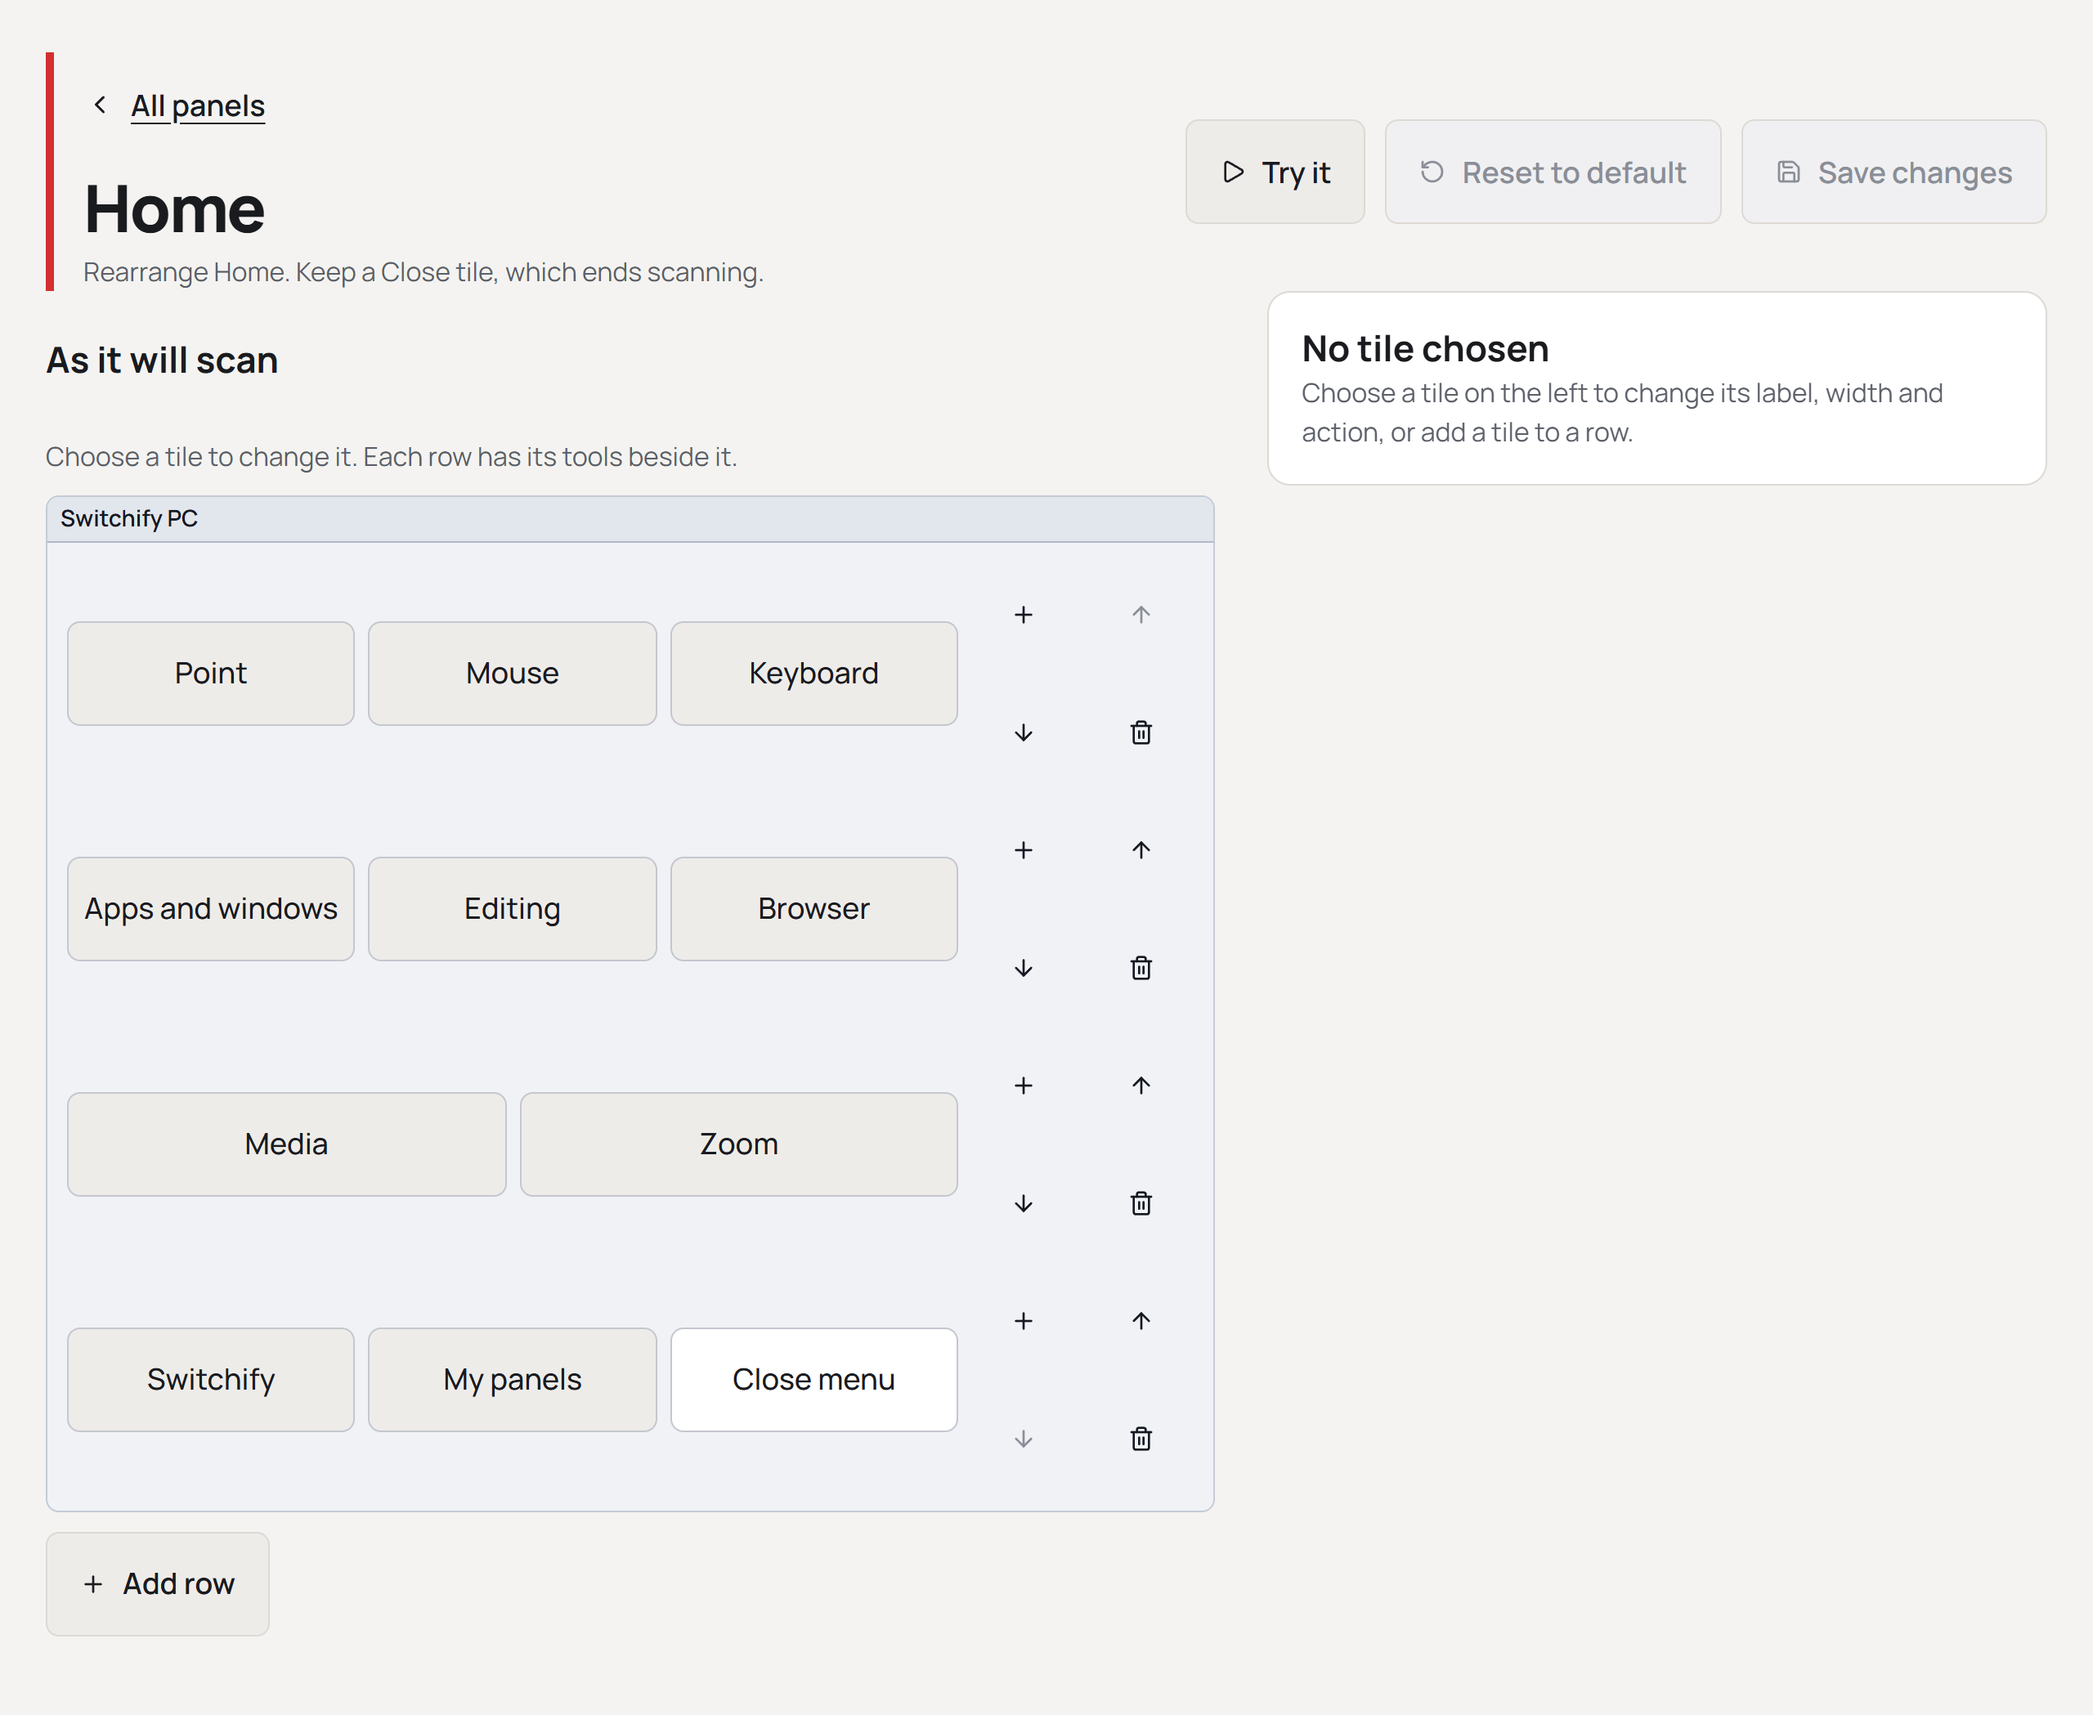
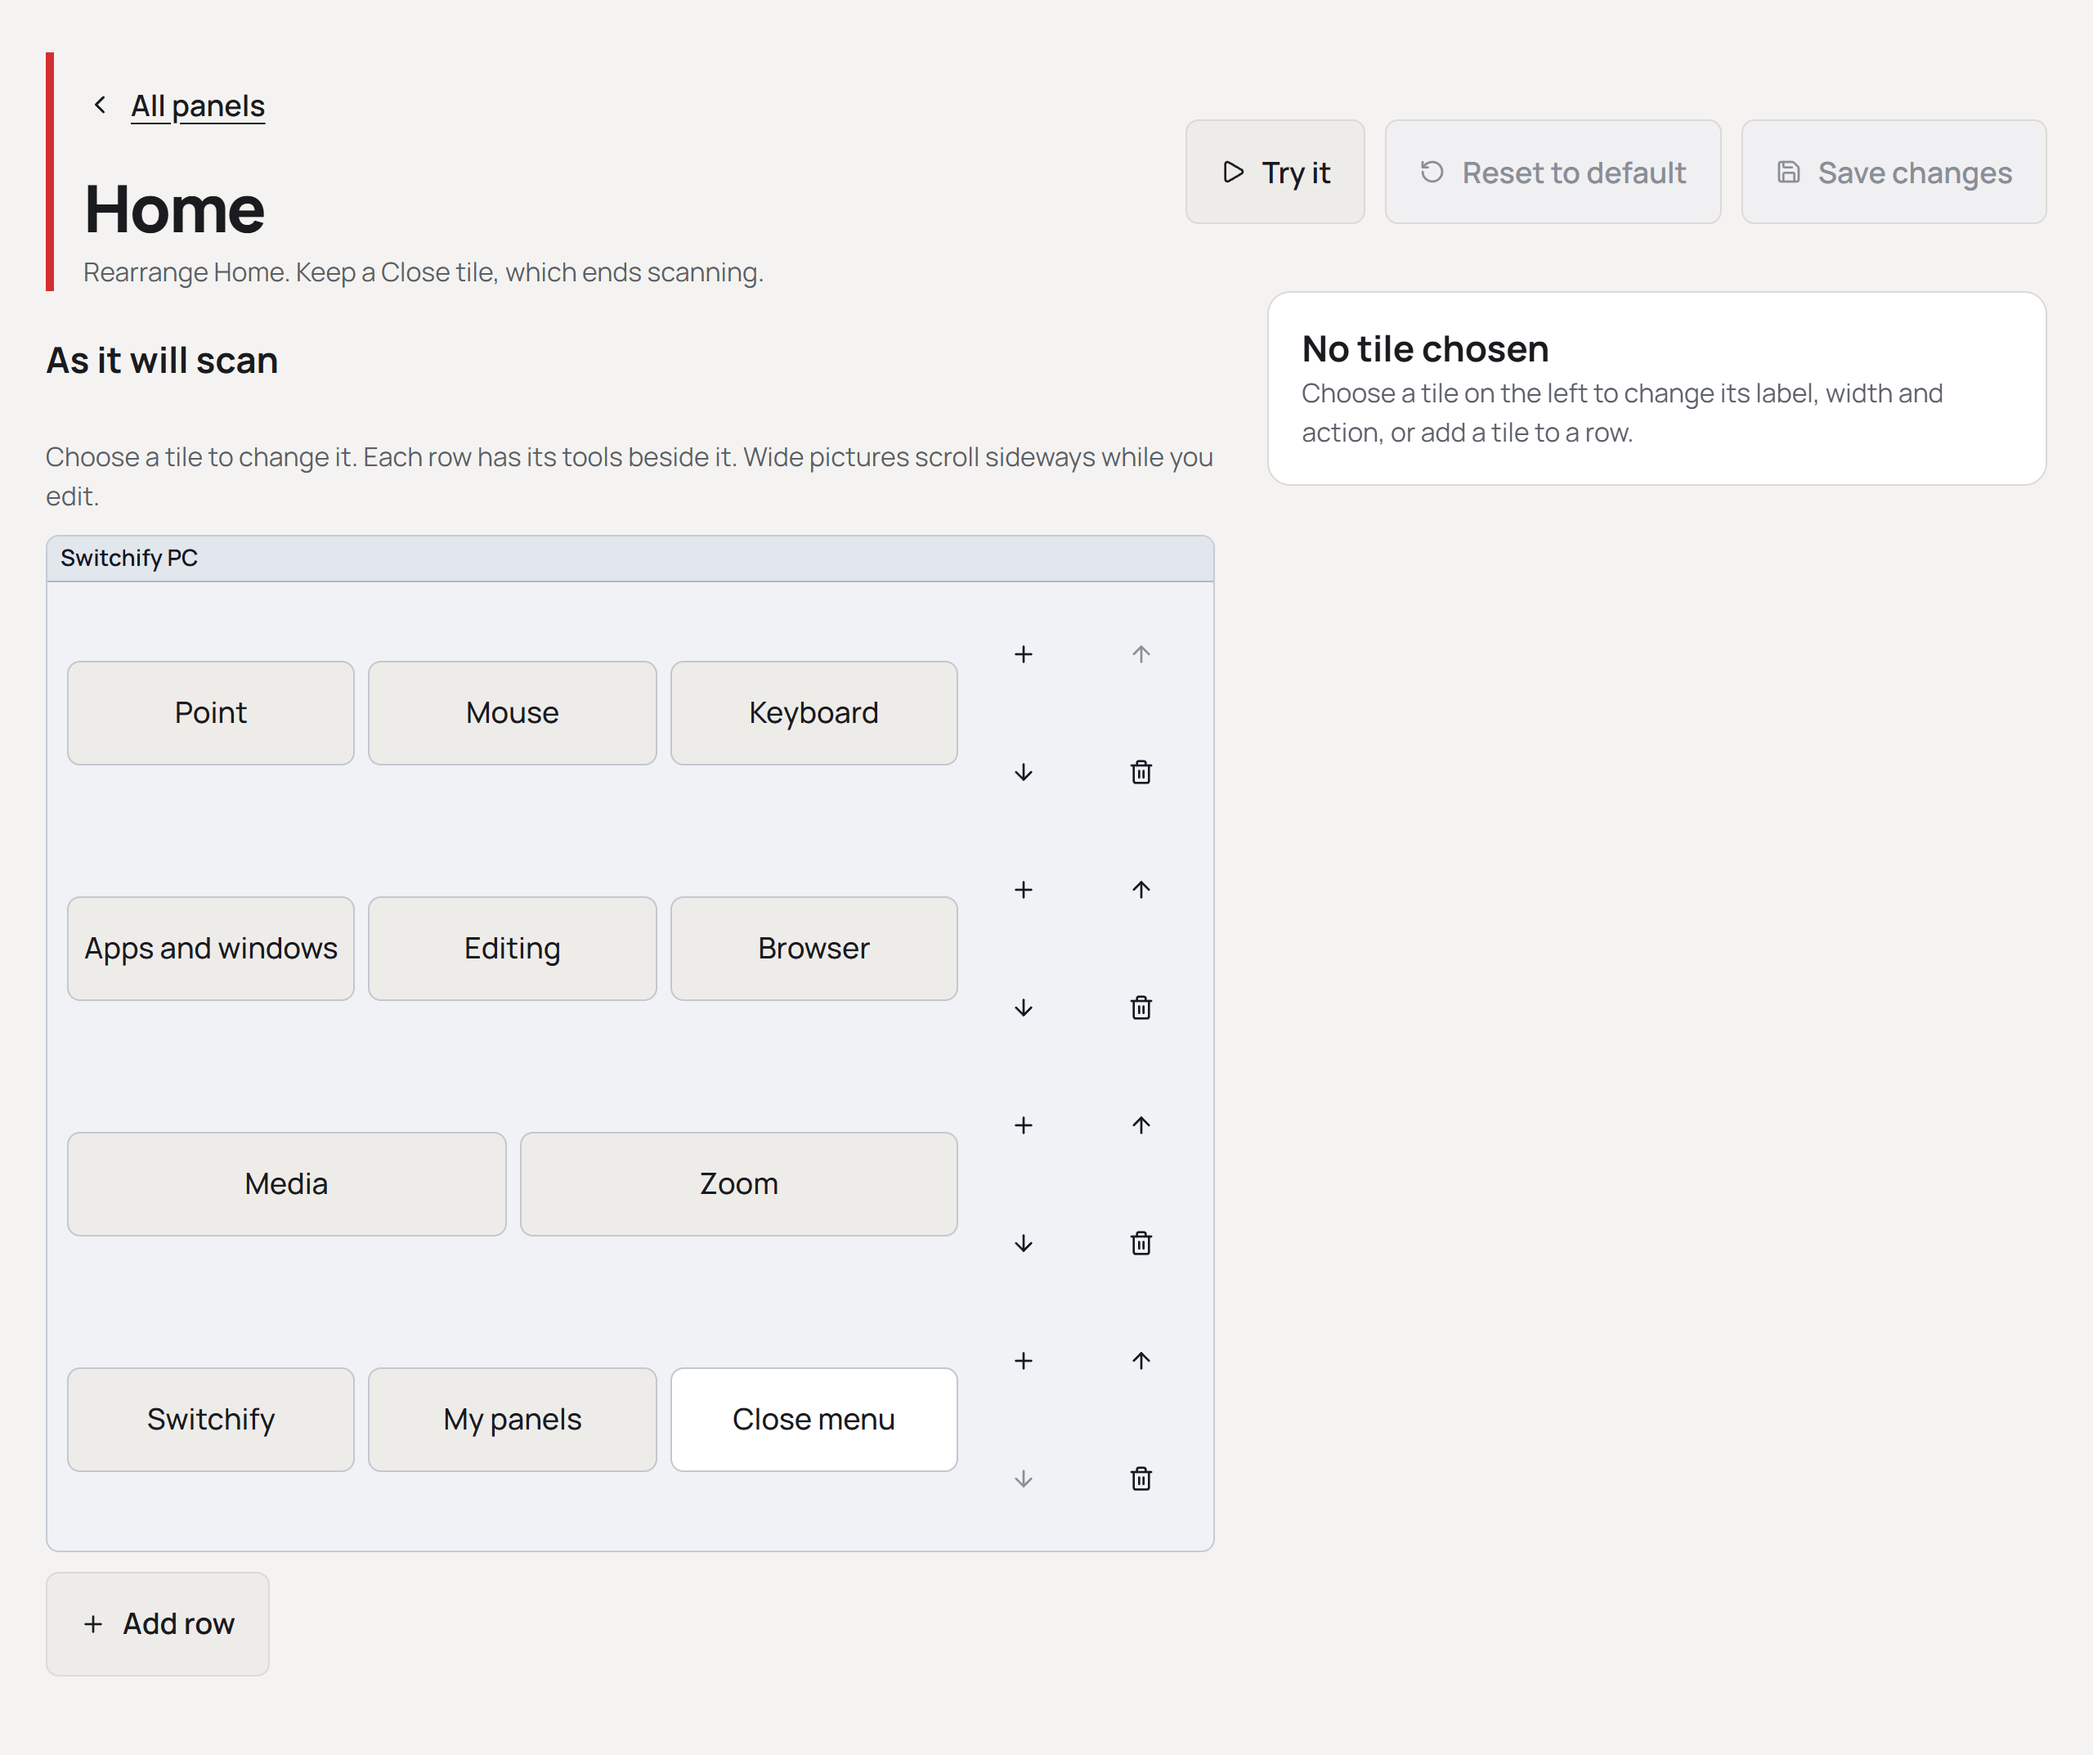
Keep dense panel editor controls separate and reachable

diff --git a/src/ui/app.css b/src/ui/app.css
@@ -396,17 +396,19 @@ section[data-found], div[data-found]:not(.tile) { padding: 10px; margin: -10px; 
 .panel-picture-slot > * { flex: 1 1 0; min-width: 0; }
 /* The editing picture: each line is the drawn row plus its tools beside it. */
 .panel-picture-line { display: grid; grid-template-columns: minmax(0, 1fr); }
-.panel-picture-editing .panel-picture-line { grid-template-columns: minmax(0, 1fr) auto; gap: 8px; align-items: center; }
+.panel-picture-editing { overflow-x: auto; }
+.panel-picture-editing .panel-picture-line { grid-template-columns: minmax(min-content, 1fr) 136px; gap: 8px; align-items: center; }
+.panel-picture-editing .panel-picture-slot { min-width: 64px; }
+.panel-picture-editing .panel-picture-keys { min-width: min-content; }
 .panel-picture-editing .panel-picture-tools { display: grid; grid-template-columns: repeat(2, 64px); gap: 8px; width: 136px; }
-.panel-picture-editing .panel-picture-tools .btn, .panel-picture-column-tools .btn { width: 64px; height: 64px; min-width: 64px; min-height: 64px; padding: 0; color: inherit; }
+.panel-picture-editing .panel-picture-tools .btn, .panel-column-buttons .btn { width: 64px; height: 64px; min-width: 64px; min-height: 64px; padding: 0; color: inherit; }
 .panel-picture-editing .btn.panel-editor-tile { overflow: hidden; overflow-wrap: anywhere; }
 .panel-picture-large .panel-picture-tile[data-fixed] { overflow-wrap: break-word; }
 .panel-picture-editing .panel-picture-rows { gap: 8px; padding: 12px 8px 12px 12px; }
 .panel-picture-editing .btn.panel-editor-tile { width: 100%; min-width: 64px; min-height: 64px; border-radius: 8px; padding: 6px 8px; }
-.panel-picture-column-tools { align-items: flex-start; }
-.panel-picture-column-tools .panel-picture-slot { justify-content: center; }
-.panel-picture-editing .panel-picture-column-tools .panel-picture-slot { flex-wrap: wrap; gap: 4px; min-width: 64px; }
-.panel-picture-column-tools .panel-picture-slot > .btn { flex: 0 0 auto; }
+.panel-column-toolbars { display: flex; flex-wrap: wrap; gap: 20px; border-top: 1px solid var(--border); padding-top: 16px; }
+.panel-column-toolbar { display: grid; gap: 8px; min-width: 0; }
+.panel-column-buttons { display: flex; flex-wrap: wrap; gap: 8px; }
 .panel-canvas-actions { display: flex; flex-wrap: wrap; gap: 12px; }
 .panel-picture-keys { display: flex; gap: 4px; min-width: 0; }
 .panel-picture-large .panel-picture-keys { gap: 8px; }

diff --git a/src/panels/PanelPicture.tsx b/src/panels/PanelPicture.tsx
@@ -22,7 +22,7 @@ export function picturePalette(theme: PanelTheme | undefined) {
 export type TilePlace = { row: number; cell: number; column?: true };
 
 /** Makes a picture editable: the user's tiles are drawn by `tile`, every
- *  row and column gets its tools beside it, and the whole thing is a group
+ *  row gets tools beside it and columns get labelled tools below. The whole thing is a group
  *  rather than an image. */
 export type PictureEditing = {
   tile: (cell: PanelCell, place: TilePlace, colours: Palette) => React.ReactNode;
@@ -79,12 +79,11 @@ export function PanelPicture({ panel, fixed, columns = [], editing, theme, title
     <div className="panel-picture-band" style={{ background: colours.band, borderColor: colours.bandBorder }}><span>{title}</span></div>
     <div className="panel-picture-rows">
       {lines.map(line)}
-      {editing && columns.length > 0 && <div className="panel-picture-line">
-        <div className="panel-picture-row panel-picture-column-tools">
-          <span className="panel-picture-spacer" style={{ flexGrow: keysWeight, flexBasis: 0 }} />
-          {columns.map((column, c) => <span key={c} className="panel-picture-slot" style={{ flexGrow: columnWidth(column), flexBasis: 0 }}>{editing.columnTools(c)}</span>)}
-        </div>
-        <div className="panel-picture-tools" />
+      {editing && columns.length > 0 && <div className="panel-column-toolbars">
+        {columns.map((_, c) => <div key={c} className="panel-column-toolbar" role="group" aria-label={`Column ${c + 1} tools`}>
+          <strong aria-hidden="true">Column {c + 1}</strong>
+          <div className="panel-column-buttons">{editing.columnTools(c)}</div>
+        </div>)}
       </div>}
     </div>
   </div>;

diff --git a/src/panels/PanelEditor.tsx b/src/panels/PanelEditor.tsx
@@ -214,7 +214,7 @@ export function PanelEditor({ panel, panels, theme, busy, error, builtin, extras
           </form>
           <section ref={rowsRef} tabIndex={-1} className="panel-grid-editor" aria-label="Tiles">
             <h2>As it will scan</h2>
-            <p className="capability-note">{extras ? "Choose one of your tiles to change it. Each row and column has its tools beside it." : "Choose a tile to change it. Each row has its tools beside it."}</p>
+            <p className="capability-note">{extras ? "Choose one of your tiles to change it. Row tools sit beside the picture; labelled column tools sit below it." : "Choose a tile to change it. Each row has its tools beside it."} Wide pictures scroll sideways while you edit.</p>
             {problems.rows && <p className="field-error">{problems.rows}</p>}
             {problems.columns && <p className="field-error">{problems.columns}</p>}
             {[...draft.rows.map((_, index) => [`row-${index}`, `Row ${index + 1}`]), ...columns.map((_, index) => [`column-${index}`, `Column ${index + 1}`])].map(([key, place]) => problems[key] && <p key={key} className="field-error">{place}: {problems[key]}</p>)}

diff --git a/site/src/content/docs/using/panels.md b/site/src/content/docs/using/panels.md
@@ -22,13 +22,13 @@ To change a panel later, choose its picture in the list. **Delete panel** remove
 
 ## Edit the tiles
 
-The editor draws the panel as it will scan. Choose a tile on it to change it on the right:
+The editor draws the panel as it will scan. Wide pictures scroll sideways while you edit so the tiles stay large enough to choose. Choose a tile on it to change it on the right:
 
 - **Label** is the word or two written on the tile. Keep it short so it fits.
 - **Width** makes a tile two, three or four times as wide as a normal tile. The tiles in a row share the row's width between them.
 - **Action** is what the tile does. Search the list by what you want, for example "copy", "volume" or "new tab", and choose an action. Some actions need a little more: **Press keys** asks you to press the keys on your keyboard, **Type text** asks for the text, and **Open one of my panels** asks which panel.
 
-Beside each row are its tools: add a tile to it, move it up or down, or remove it. **Add row** under the panel adds a row. With a tile chosen, the arrows move it along its row, **Row** moves it to the end of another row or a new one, and **Remove tile** takes it away. Nothing changes on the scanned panel until you choose **Save panel**; if you leave with unsaved changes, Switchify PC asks first.
+Beside each row are its tools: add a tile to it, move it up or down, or remove it. Column tools sit below the picture, labelled **Column 1**, **Column 2**, and so on. **Add row** under the panel adds a row. With a tile chosen, the arrows move it along its row, **Row** moves it to the end of another row or a new one, and **Remove tile** takes it away. Nothing changes on the scanned panel until you choose **Save panel**; if you leave with unsaved changes, Switchify PC asks first.
 
 If something stops the panel saving, such as a tile with no label or a link to a panel that no longer exists, a note under the buttons says what and where. Choose the note to go to that tile.
 
